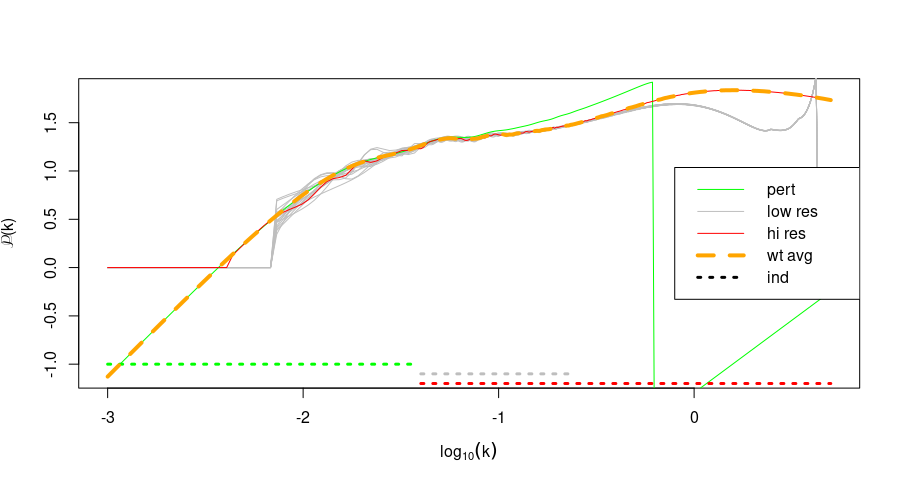
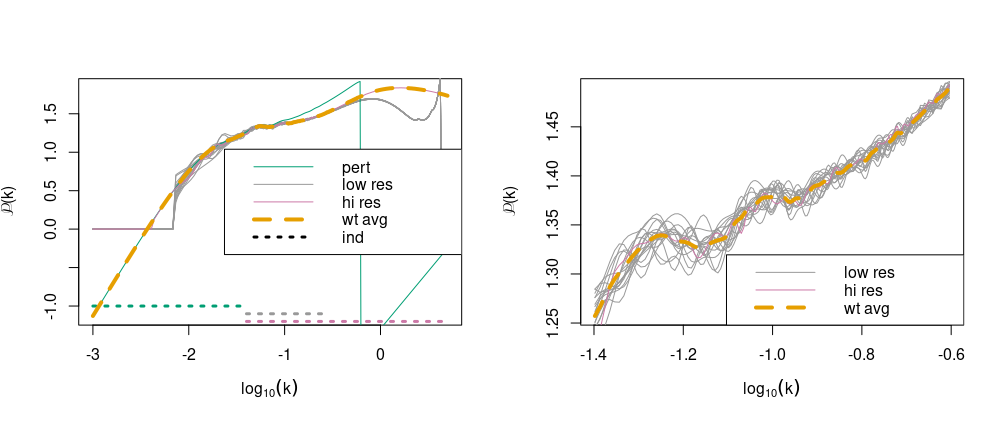
update color palette and data png

diff --git a/paper/main.tex b/paper/main.tex
@@ -100,7 +100,7 @@ We transform $X$ values to fall within $[0,1]$ and $Y$ so that the mean and vari
 
 where $d=||x_i-x_j||^2$. From here, we estimate $\tau_\ell, \theta_\ell$ with maximum likelihood, and conditional on $\Sigma_\varepsilon$, we specify priors for $\tau_S, \theta_S$ following \cite{sauer2023active}:
 
-priors here
+\textcolor{blue}{Annie, please put the newest prior specs here.}
 
 % $$
 % \mathbf{\Sigma_\varepsilon} =
